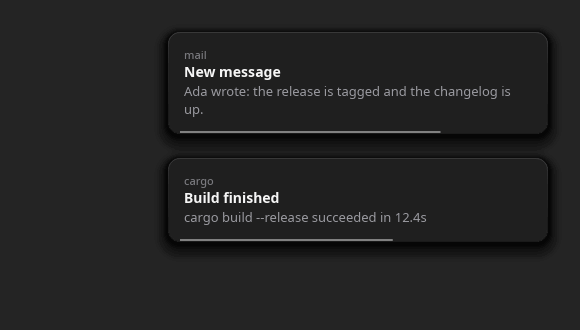
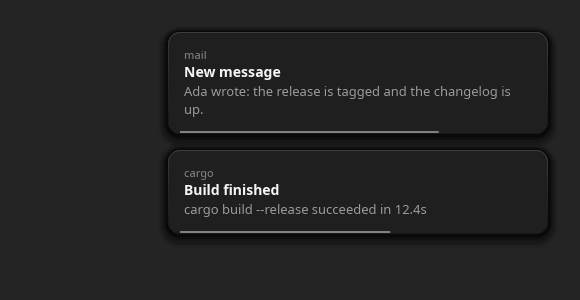
Soften the shadow and fade the hairline from light to dark

diff --git a/src/render.rs b/src/render.rs
@@ -24,7 +24,7 @@ pub const MAX_CARDS: usize = 4;
 
 /// Space reserved around the panel for its drop shadow, in logical pixels. The buffer
 /// and the layer surface grow by it; the panel keeps its size and screen position.
-pub const SHADOW: u32 = 24;
+pub const SHADOW: u32 = 20;
 
 /// The surface a panel of `w`×`h` needs: the panel plus its shadow margin on every side.
 /// The only place that ratio is defined, so the buffer, the layer surface and the input
@@ -36,8 +36,8 @@ pub const fn surface(w: u32, h: u32) -> (u32, u32) {
 /// Shadow layers as (blur radius, alpha at the panel edge, vertical offset), logical px
 /// and 0-255. A tight contact shadow under a wide ambient one; the offset is positive
 /// because the light comes from above.
-const SHADOW_TIGHT: (u32, u32, u32) = (7, 170, 2);
-const SHADOW_WIDE: (u32, u32, u32) = (17, 130, 6);
+const SHADOW_TIGHT: (u32, u32, u32) = (6, 155, 1);
+const SHADOW_WIDE: (u32, u32, u32) = (13, 115, 4);
 // The margin must fit the widest layer, or its falloff is cut off at the buffer edge.
 const _: () = assert!(SHADOW >= SHADOW_WIDE.0 + SHADOW_WIDE.2);
 
@@ -46,9 +46,17 @@ const _: () = assert!(SHADOW >= SHADOW_WIDE.0 + SHADOW_WIDE.2);
 /// know, but the gap between stacked cards has to clear it.
 pub const SHADOW_REACH_UP: u32 = SHADOW_WIDE.0 - SHADOW_WIDE.2;
 
-/// The hairline's dark underside. Its lit half is the configured border colour, faded
-/// over the height.
+/// The hairline's dark underside: an inner shadow at the bottom edge, fading up into the
+/// sides. Its lit half is the configured border colour, fading down from the top edge.
 const BORDER_DARK_ALPHA: u32 = 60;
+
+/// Where each half of the hairline peaks, as (position down the panel, share of the peak).
+/// The lit half is on top and gone by the lower third; the dark half starts past the middle
+/// and is whole at the bottom edge. Between them the edge carries a little of both, which is
+/// what keeps it visible against the wallpaper without drawing a line around the panel.
+const BORDER_LIT: [(f32, f32); 5] =
+    [(0.0, 1.0), (0.28, 0.62), (0.55, 0.21), (0.85, 0.0), (1.0, 0.0)];
+const BORDER_DARK: [(f32, f32); 4] = [(0.0, 0.0), (0.5, 0.1), (0.82, 0.63), (1.0, 1.0)];
 
 const PAD: f32 = 16.0;
 const RADIUS: f32 = 12.0;
@@ -285,27 +293,40 @@ fn panel(pixels: &mut [u8], width: u32, height: u32, config: &Config, density: u
     );
     let hairline = Stroke { width: stroke_width, ..Stroke::default() };
 
-    // Dark underneath first, then the lit top: it covers the seam where the translucent
-    // body meets the shadow, so the two read as one continuous edge.
-    let mut dark = Paint::default();
-    dark.set_color_rgba8(0, 0, 0, BORDER_DARK_ALPHA as u8);
-    dark.anti_alias = true;
+    // Both halves of the hairline are gradients down the panel: the dark inner shadow at
+    // the bottom is laid first, then the light sheen, which covers the seam where the
+    // translucent body meets the drop shadow.
+    let Some(dark_shader) = LinearGradient::new(
+        Point::from_xy(0.0, x),
+        Point::from_xy(0.0, x + h),
+        BORDER_DARK
+            .iter()
+            .map(|(at, share)| {
+                GradientStop::new(
+                    *at,
+                    Color::from_rgba8(0, 0, 0, (BORDER_DARK_ALPHA as f32 * share).round() as u8),
+                )
+            })
+            .collect(),
+        SpreadMode::Pad,
+        Transform::identity(),
+    ) else {
+        return;
+    };
+    let dark = Paint { shader: dark_shader, anti_alias: true, ..Paint::default() };
     pixmap.stroke_path(&ring, &dark, &hairline, Transform::identity(), None);
 
-    // Lit from above and fading out over the height, so the shadow reads as growing out
-    // of the top edge rather than ringing the panel evenly.
     let ink = config.border.color;
-    let stop = |offset: f32| {
-        let lit = (1.0 - offset).powi(2);
+    let stop = |(at, share): (f32, f32)| {
         GradientStop::new(
-            offset,
-            Color::from_rgba8(ink.0, ink.1, ink.2, (ink.3 as f32 * lit).round() as u8),
+            at,
+            Color::from_rgba8(ink.0, ink.1, ink.2, (ink.3 as f32 * share).round() as u8),
         )
     };
     let Some(shader) = LinearGradient::new(
         Point::from_xy(0.0, x),
         Point::from_xy(0.0, x + h),
-        vec![stop(0.0), stop(1.0 / 3.0), stop(2.0 / 3.0), stop(1.0)],
+        BORDER_LIT.into_iter().map(stop).collect(),
         SpreadMode::Pad,
         Transform::identity(),
     ) else {
@@ -911,22 +932,57 @@ mod tests {
         );
     }
 
-    /// The hairline is lit from above and dark underneath, so the translucent body and the
-    /// shadow read as one edge rather than two surfaces meeting.
+    /// The hairline runs from a lit top edge to a dark inner shadow at the bottom, fading
+    /// through both halves of the gradient on the way down, so the translucent body and the
+    /// shadow read as one edge rather than as two surfaces meeting.
     #[test]
-    fn the_hairline_is_lit_from_above() {
+    fn the_hairline_fades_from_light_to_dark() {
         let (canvas, width, height) = render_with(Config::default(), sample(), 1.0);
         let (w, h) = (width as usize, height as usize);
         let margin = SHADOW as usize;
-        let row = |y: usize| canvas[(y * w + w / 2) * 4];
+        let radius = RADIUS as usize;
+        let grey = |x: usize, y: usize| canvas[(y * w + x) * 4];
 
-        let body = row(margin + 3);
-        let top = row(margin);
-        let bottom = row(h - margin - 1);
-        assert_ne!(top, body, "the top edge is a hairline, not the body");
-        assert_ne!(bottom, body, "and so is the bottom edge");
+        // Down the straight part of the left edge, clear of the corner arcs.
+        let (top_y, bottom_y) = (margin + radius, h - margin - radius);
+        let body = grey(w / 2, (top_y + bottom_y) / 2);
+        let along: Vec<u8> = (0..=7)
+            .map(|step| grey(margin, top_y + (bottom_y - top_y) * step / 7))
+            .collect();
+        let (top, bottom) = (along[0], along[7]);
+
         assert!(top > body, "lit from above: {top} against the body's {body}");
         assert!(bottom < body, "and dark underneath: {bottom} against {body}");
+        assert!(
+            along.windows(2).all(|pair| pair[0] >= pair[1]),
+            "the edge fades one way, top to bottom: {along:?}"
+        );
+        assert!(
+            along[3] > body,
+            "the sides keep a little light, or the edge vanishes into the wallpaper: \
+             {} against {body}",
+            along[3]
+        );
+    }
+
+    /// The shadow fades out inside its own margin, so no layer is cut off at the buffer
+    /// edge — which is what the margin exists for.
+    #[test]
+    fn the_shadow_does_not_reach_the_buffer_edge() {
+        let (canvas, width, height) = render_with(Config::default(), sample(), 1.0);
+        let (w, h) = (width as usize, height as usize);
+        let alpha = |x: usize, y: usize| canvas[(y * w + x) * 4 + 3];
+
+        for x in [0, w - 1] {
+            for y in 0..h {
+                assert_eq!(alpha(x, y), 0, "the buffer's side column is empty at y={y}");
+            }
+        }
+        for y in [0, h - 1] {
+            for x in 0..w {
+                assert_eq!(alpha(x, y), 0, "the buffer's top or bottom row is empty at x={x}");
+            }
+        }
     }
 
     /// A dense output gets a buffer at its own density: the same panel, twice the pixels,

diff --git a/src/ui.rs b/src/ui.rs
@@ -46,9 +46,9 @@ const MARGIN: i32 = 32;
 const _: () = assert!(MARGIN >= render::SHADOW as i32);
 /// Space between stacked cards: the visible edge of one panel to the visible edge of the
 /// next. A shadow reaches `SHADOW_REACH_UP` above its panel, so a tighter gap would smear one
-/// card's shadow onto the panel above it. This also holds a whole shadow margin, so the gap
+/// card's shadow onto the panel above it. This also holds most of a shadow margin, so the gap
 /// shows the fade and reads as space rather than as a gutter between two halves of one slab.
-const GAP: i32 = 24;
+const GAP: i32 = 16;
 const _: () = assert!(GAP as u32 > render::SHADOW_REACH_UP);
 /// One animation frame. 60 Hz, which is what the motion was tuned against.
 const FRAME: Duration = Duration::from_millis(16);

diff --git a/README.md b/README.md
@@ -76,10 +76,10 @@ place, in which case the bus starts the daemon first and there is then nothing t
 | | |
 |---|---|
 | Position | `top-right` by default; 32 px inside the edge it is anchored to, and clear of anything a bar or a dock has claimed there; the drop shadow lives inside that gap |
-| Panel | 380 px wide, 12 px corner radius, 16 px padding, a hairline edge and a drop shadow |
+| Panel | 380 px wide, 12 px corner radius, 16 px padding, a drop shadow, and a hairline that runs from a lit top edge to a dark inner shadow at the bottom |
 | Dense output | drawn at the output's integer scale, so the panel keeps its logical size and its pixels are the output's own; fractional scaling uses the integer scale the compositor reports |
 | Icon | the `image-data` hint, fitted into a 32 px slot to the left of the text and never enlarged; `image-path` and `app_icon` are ignored |
-| Stack | up to 4 panels, 24 px apart, newest on top |
+| Stack | up to 4 panels, 16 px apart, newest on top |
 | Max height | 320 px; longer bodies are clipped |
 | Expiry | per-notification; `-1` becomes 5000 ms, `0` never expires |
 | Hold | a pointer inside a panel pauses its timeout; leaving resumes with the time that was left |
